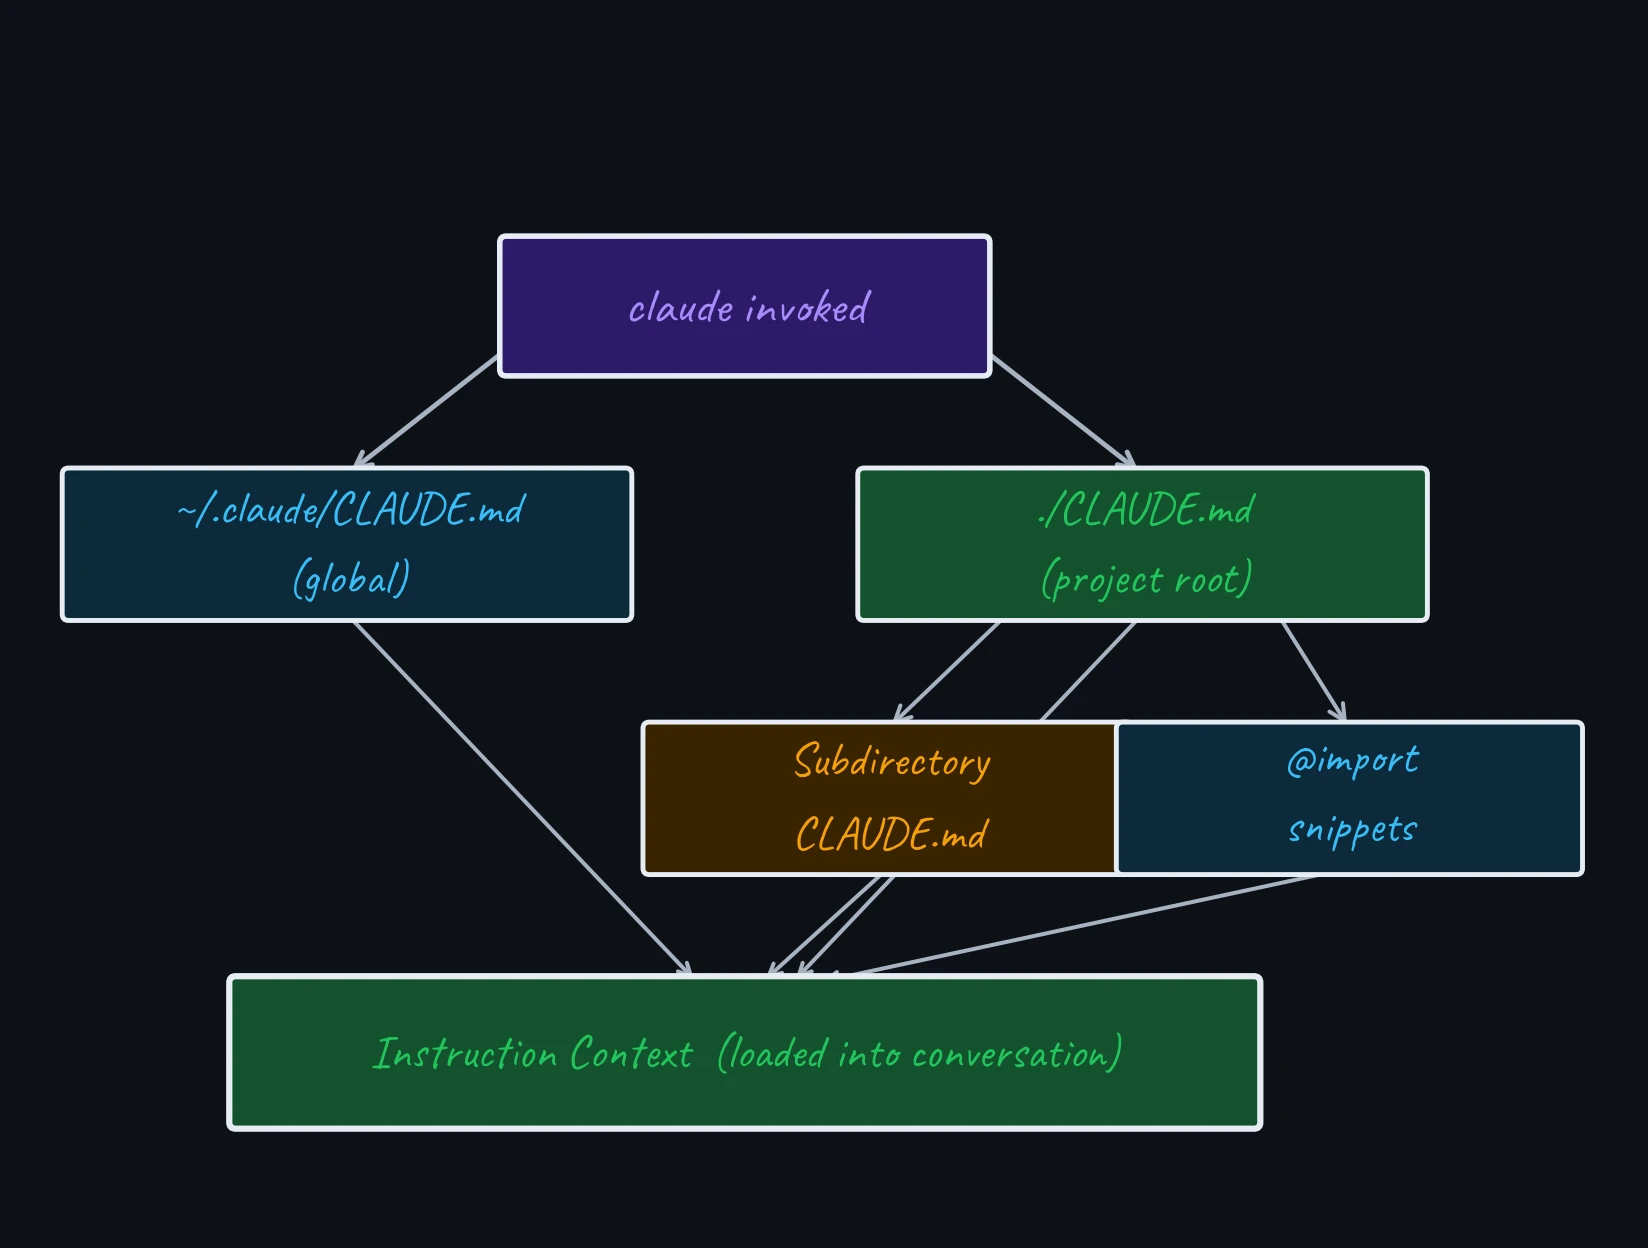
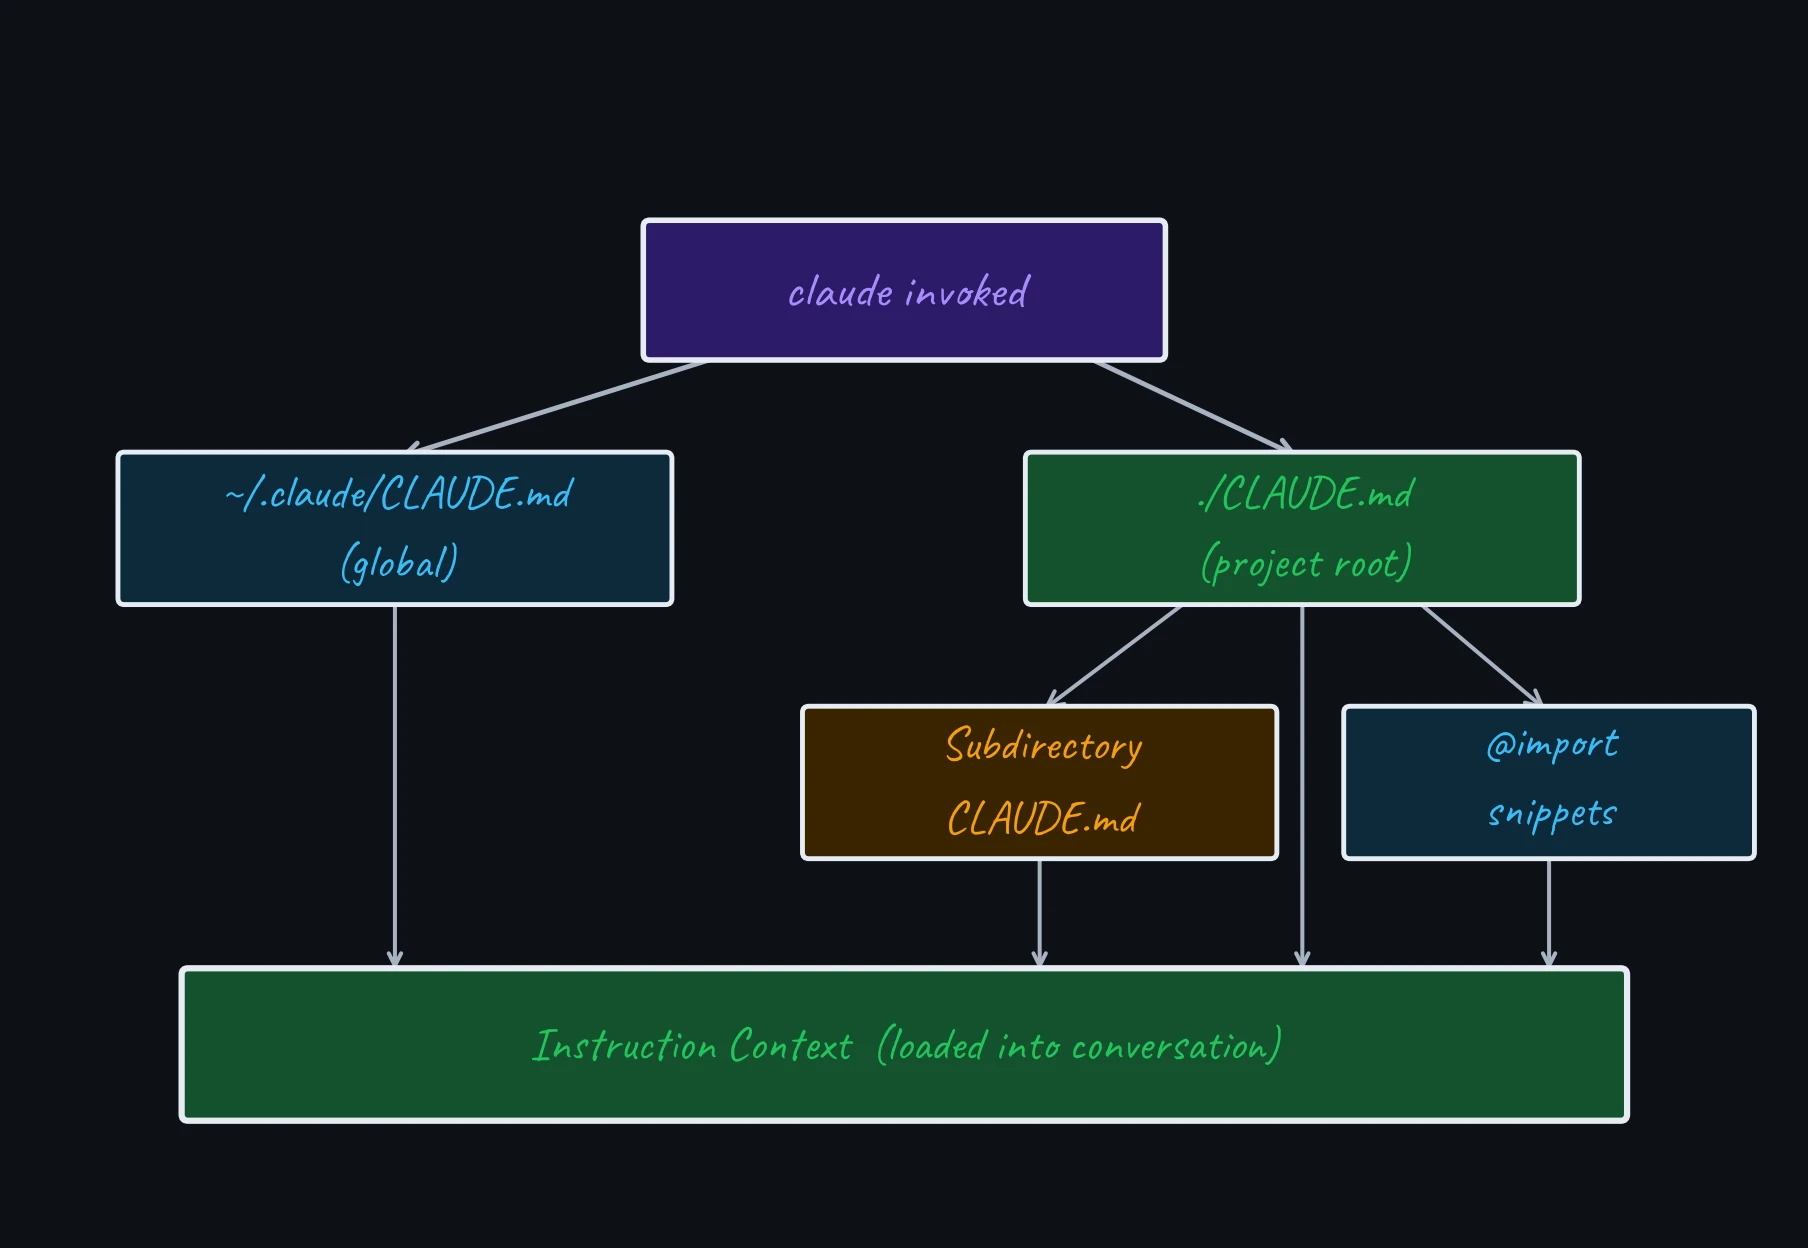
Fix outdated auto-mode status and tidy two diagrams (#29)
## Summary

Reviewed the deck against the current Claude Code docs
(code.claude.com/docs) and the current Anthropic model lineup as of
September 2026. The deck holds up very well — most claims are accurate,
and the author's choice to never hardcode model version names means the
recent Opus 5 / Fable 5.1 / Sonnet 5 releases require **no** content
changes. This PR fixes the one genuine factual regression I found,
tidies two diagrams, and adds a reusable prompt for future refreshes.

### Content fix — auto mode is no longer a research preview
The permission-mode slide described **Auto** as a "research preview."
Per the [permission-modes
docs](https://code.claude.com/docs/en/permission-modes), auto mode is
now the **built-in default starting mode on Pro, Max, and Team plans**
(v2.1.228+). It also works via a background *classifier model* that
reviews actions in your place, not merely by "reducing prompts."

- Updated the table row: `Auto → Everything, with background safety
checks · Default on Pro/Max/Team; long tasks`
- Reworded the defense-in-depth caption to describe the classifier
accurately.

### Diagram fixes
- **`diag-05` (How CLAUDE.md Is Loaded)** — widened the layout so the
child boxes no longer touch, and routed every merge arrow straight down.
The old version had the global-CLAUDE.md arrow crossing under the
project subtree; the new one has zero crossing edges.
- **`diag-12` (Workflow Orchestration)** — "Budget control" was a stray
[…]

Changed region(s): [[0.0309, 0.1562, 0.9903, 0.9062], [0.3095, 0.625, 0.3404, 0.6562], [0.2785, 0.5938, 0.3095, 0.625]]

diff --git a/media/generate_diagrams.py b/media/generate_diagrams.py
@@ -265,29 +265,34 @@ def make_04():
 # 5 — CLAUDE.md Loading
 # ═══════════════════════════════════════════════════════════════
 def make_05():
-    # Increased height so title (at h-0.55) clears the top box
-    fig, ax = new_fig(10, 7.5)
-    title(ax, 9, 7.5, 'How CLAUDE.md Is Loaded')
+    # w=11 gives horizontal room so no boxes touch; every merge arrow is vertical
+    # so nothing crosses. The project-root -> context arrow drops through the gap
+    # between the two child boxes (x=8.0 sits in the 7.80..8.30 clear channel).
+    fig, ax = new_fig(11, 7.5)
+    title(ax, 11, 7.5, 'How CLAUDE.md Is Loaded')
 
-    box(ax, 4.5, 5.75, 3.0, 0.80, DPUR, 'claude invoked', fs=23, tc=PUR, lw=2.5)
+    box(ax, 5.5, 5.85, 3.2, 0.80, DPUR, 'claude invoked', fs=23, tc=PUR, lw=2.5)
 
-    box(ax, 2.0, 4.25, 3.5, 0.88, DBLU, '~/.claude/CLAUDE.md\n(global)', fs=21, tc=BLU)
-    box(ax, 7.0, 4.25, 3.5, 0.88, DGRN, './CLAUDE.md\n(project root)', fs=21, tc=GRN)
+    box(ax, 2.3, 4.35, 3.4, 0.88, DBLU, '~/.claude/CLAUDE.md\n(global)', fs=21, tc=BLU)
+    box(ax, 8.0, 4.35, 3.4, 0.88, DGRN, './CLAUDE.md\n(project root)', fs=21, tc=GRN)
 
-    box(ax, 5.4, 2.65, 3.0, 0.88, DAMB, 'Subdirectory\nCLAUDE.md', fs=21, tc=AMB)
-    box(ax, 8.3, 2.65, 2.85, 0.88, DBLU, '@import\nsnippets', fs=21, tc=BLU)
+    box(ax, 6.35, 2.75, 2.9,  0.88, DAMB, 'Subdirectory\nCLAUDE.md', fs=21, tc=AMB)
+    box(ax, 9.55, 2.75, 2.5,  0.88, DBLU, '@import\nsnippets', fs=21, tc=BLU)
 
-    box(ax, 4.5, 1.05, 6.4, 0.88, DGRN, 'Instruction Context  (loaded into conversation)',
+    box(ax, 5.5, 1.10, 9.0, 0.88, DGRN, 'Instruction Context  (loaded into conversation)',
         fs=21, tc=GRN, lw=2.8)
 
-    arr(ax, 3.35, 5.75, 2.0, 4.69, col=MUT)
-    arr(ax, 5.65, 5.75, 7.0, 4.69, col=MUT)
+    # claude invoked -> the two top-level sources
+    arr(ax, 4.4, 5.45, 2.3, 4.79, col=MUT)
+    arr(ax, 6.6, 5.45, 8.0, 4.79, col=MUT)
 
-    arr(ax, 6.15, 3.81, 5.4, 3.09, col=MUT, lw=1.8)
-    arr(ax, 7.85, 3.81, 8.3, 3.09, col=MUT, lw=1.8)
+    # project root -> its subdirectory files and @imports
+    arr(ax, 7.3, 3.91, 6.35, 3.19, col=MUT, lw=1.8)
+    arr(ax, 8.7, 3.91, 9.55, 3.19, col=MUT, lw=1.8)
 
-    for sx, sy in [(2.0, 3.81), (7.0, 3.81), (5.4, 2.21), (8.3, 2.21)]:
-        arr(ax, sx, sy, 4.5 + (sx - 4.5) * 0.12, 1.49, col=MUT, lw=1.8, ms=14)
+    # every source merges straight down into the instruction context (no crossings)
+    for sx, sy in [(2.3, 3.91), (8.0, 3.91), (6.35, 2.31), (9.55, 2.31)]:
+        arr(ax, sx, sy, sx, 1.54, col=MUT, lw=1.8, ms=14)
 
     save(fig, 'diag-05-claude-md-loading.png')
 
@@ -466,20 +471,19 @@ def make_12():
     box(ax, 5.5, 5.30, 5.0, 0.88, DPUR, 'Workflow Orchestration\n(advanced)',
         fs=22, tc=PUR, lw=2.8)
 
-    # Four capability boxes
+    # Five capability boxes — every one wired to both the script and the results,
+    # so budget control reads as a first-class capability, not a stray box.
     prims = [
-        (1.55, 3.60, DGRN, GRN, 'Subagents\nmany workers'),
-        (4.10, 3.60, DBLU, BLU, 'Parallelism\nfan-out'),
-        (6.60, 3.60, DAMB, AMB, 'Progress\ntracking'),
-        (9.15, 3.60, DPUR, PUR, 'Structured\noutput'),
+        (1.26, 3.60, DGRN, GRN, 'Subagents\nmany workers'),
+        (3.38, 3.60, DBLU, BLU, 'Parallelism\nfan-out'),
+        (5.50, 3.60, DAMB, AMB, 'Progress\ntracking'),
+        (7.62, 3.60, DPUR, PUR, 'Structured\noutput'),
+        (9.74, 3.60, DRED, RED, 'Budget\ncontrol'),
     ]
-    bw, bh = 2.10, 1.05
+    bw, bh = 1.95, 1.05
     for px, py, pfc, ptc, plbl in prims:
-        box(ax, px, py, bw, bh, pfc, plbl, fs=19, tc=ptc, lw=2.0)
+        box(ax, px, py, bw, bh, pfc, plbl, fs=18, tc=ptc, lw=2.0)
         arr(ax, 5.5 + (px - 5.5) * 0.42, 4.86, px, 4.13, col=MUT, lw=1.8, ms=14)
-
-    # Budget annotation on the side
-    box(ax, 9.80, 5.30, 2.05, 0.88, DAMB, 'Budget\ncontrol', fs=20, tc=AMB, lw=2.0)
 
     # Structured results at bottom
     box(ax, 5.5, 1.35, 5.5, 0.88, DGRN, 'Reviewable Results',

diff --git a/.github/prompts/refresh-claude-code-deck.prompt.md b/.github/prompts/refresh-claude-code-deck.prompt.md
@@ -1,0 +1,103 @@
+---
+name: refresh-claude-code-deck
+description: Audit this Claude Code slide deck against the latest docs and model releases, fix stale or wrong advice, tidy diagrams, and open a PR.
+argument-hint: (no args needed; optionally name a section or diagram to focus on)
+agent: agent
+---
+
+You are updating this repository's Quarto/RevealJS presentation about using
+Claude Code effectively. The deck lives in `index.qmd`; diagrams are generated
+by `media/generate_diagrams.py` and committed as `.webp`. Read `AGENTS.md` and
+`CLAUDE.md` first — they hold the layout rules, colour constants, and diagram
+constraints you must follow.
+
+## Goal
+
+Check the deck's advice against the **current** state of Claude Code and the
+Anthropic model lineup, then correct what is wrong. Your knowledge may be out of
+date, so treat the live docs as the source of truth — not your training data and
+not memory.
+
+## Step 1 — Research the current state (parallelize)
+
+Fetch the latest facts before touching anything. Cover at least:
+
+- **Claude Code features** — permission modes, sandboxing, slash commands,
+  skills, subagents / background agents / agent teams / workflows, hooks,
+  worktrees, CLAUDE.md loading, and auto memory. Primary source:
+  <https://code.claude.com/docs/en/> (the `.md` variant of each page is easiest
+  to grep, e.g. `https://code.claude.com/docs/en/permission-modes.md`).
+- **Model lineup** — current Opus / Sonnet / Haiku / Fable versions, model IDs,
+  what `/model` exposes, and any fast-mode / effort behaviour. Source:
+  <https://platform.claude.com/docs/en/models/overview>.
+
+Delegate this to subagents (e.g. the `claude-code-guide` agent or a
+`general-purpose` researcher) and ask each for **doc-cited** findings.
+
+## Step 2 — Verify before you edit (do not skip)
+
+Research agents get things wrong. **Before changing any claim in the deck**,
+confirm it yourself against the primary doc — fetch the page and grep for the
+exact command, flag, or status. Two real examples from past runs:
+
+- An agent reported `/rewind` and `/stats` as nonexistent. Both are real
+  (`/stats` is an alias for `/usage`). Editing on the agent's word would have
+  *introduced* an error.
+- The deck deliberately never hardcodes model version names, so a flurry of new
+  model releases required **zero** content changes. Don't invent work.
+
+Only change a line when the current doc contradicts it. When in doubt, leave the
+deck as-is and note the uncertainty.
+
+## Step 3 — Classify and apply changes
+
+Sort every discrepancy into:
+
+- **Bad** — advice that is now misleading or wrong → fix or remove it.
+- **Outdated** — correct once, stale now (e.g. a "research preview" label on a
+  feature that shipped as default) → update it.
+- **Missing** — see the bar below before adding anything.
+
+Preserve the deck's conventions: source-citation div at the bottom of factual
+slides, `fig-alt` on every image, the existing card/column palette, and the
+principle in `CLAUDE.md` that diagrams and text must not restate each other.
+
+### The bar for NEW features
+
+Add a new feature **only if it dramatically changes the day-to-day development
+workflow** — not merely because it exists. This deck is intentionally lean. A new
+slash command, config knob, or incremental option does **not** qualify. A shift
+in how someone fundamentally works with Claude Code might. When unsure, leave it
+out and mention it in the PR description as a suggestion for the author to weigh.
+
+## Step 4 — Diagrams (only if they can be made clearer)
+
+Regenerate diagrams from `media/generate_diagrams.py`; never hand-edit the
+`.webp`. Fix genuine defects — crossing edges, touching boxes, orphaned/
+disconnected shapes, factual errors — but don't restyle for its own sake.
+Workflow:
+
+1. Edit the relevant `make_NN()` function.
+2. Run the generator (it emits PNGs):
+   `QUARTO_PYTHON=.venv/bin/python .venv/bin/python media/generate_diagrams.py`
+3. Convert **only the changed** diagrams to WebP: `cwebp -q 90 in.png -o out.webp`
+4. Read each changed `.webp` with the image viewer and confirm it looks right.
+5. Delete the PNG intermediates — the repo tracks only `.webp`.
+
+## Step 5 — Verify and open a PR
+
+- Run `just render` and confirm `Output created: _site/index.html`.
+- `git status` should show only the files you intended to change.
+- Work on a branch; write a commit message explaining the *why*.
+- Open a PR whose body lists what changed, and — just as important — what you
+  **verified as still accurate and intentionally left unchanged**, so the author
+  can trust the audit was thorough. Flag any out-of-scope new features as
+  suggestions rather than silently adding them.
+
+## Guardrails
+
+- Don't hardcode model version names into slides; the deck's future-proofing
+  depends on staying version-agnostic.
+- Don't split `index.qmd`, change the RevealJS format, or enable code execution.
+- Keep edits surgical. A clean 4-file diff that fixes one real problem beats a
+  sprawling rewrite.
